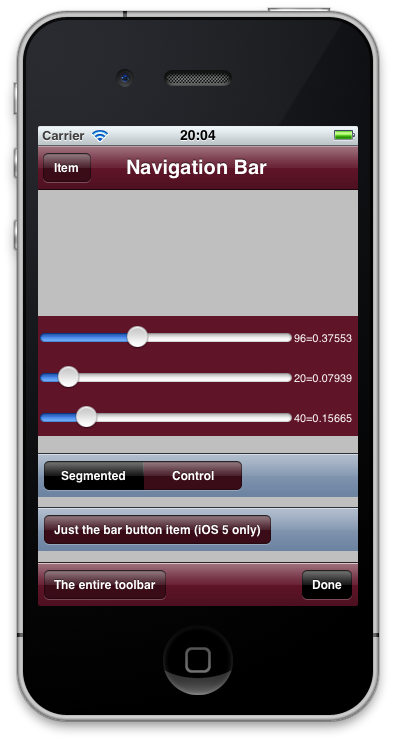
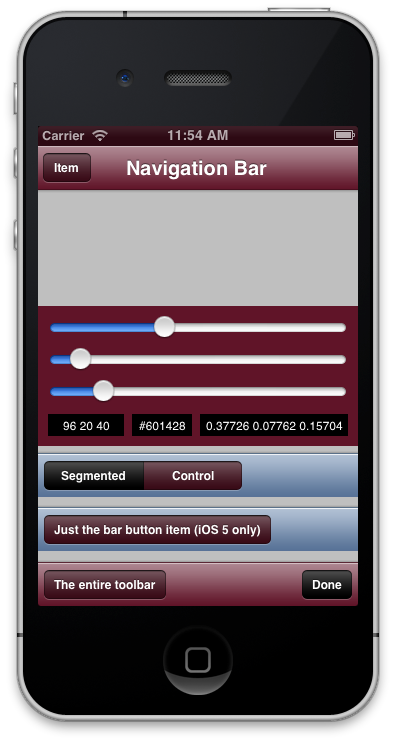
Now displays RGB as bytes, as hex, and as floats.

diff --git a/MHTintHelper/MHTintHelper.m b/MHTintHelper/MHTintHelper.m
@@ -4,16 +4,14 @@
 static const NSInteger MHTintHelperTag = 77777777;
 
 @interface MHTintHelper ()
-@property (nonatomic, strong) NSArray  *items;
-@property (nonatomic, strong) UISlider *redSlider;
-@property (nonatomic, strong) UILabel  *redLabel;
-@property (nonatomic, strong) UISlider *greenSlider;
-@property (nonatomic, strong) UILabel  *greenLabel;
-@property (nonatomic, strong) UISlider *blueSlider;
-@property (nonatomic, strong) UILabel  *blueLabel;
+@property (nonatomic, strong) NSArray *items;
 @end
 
 @implementation MHTintHelper
+{
+	UISlider *_sliders[3];
+	UILabel *_labels[3];
+}
 
 + (void)showInView:(UIView *)view forItem:(id)item
 {
@@ -22,11 +20,12 @@ static const NSInteger MHTintHelperTag = 77777777;
 
 + (void)showInView:(UIView *)view forItems:(NSArray *)items
 {
-	MHTintHelper *helper = [[MHTintHelper alloc] initWithFrame:CGRectMake(0.0f, 0.0f, 320.0f, 120.0f)];
+	MHTintHelper *helper = [[MHTintHelper alloc] initWithFrame:CGRectMake(0.0f, 0.0f, 320.0f, 140.0f)];
 	helper.items = items;
 	helper.tag = MHTintHelperTag;
 	helper.center = CGPointMake(view.bounds.size.width/2.0f, view.bounds.size.height/2.0f);
 	[view addSubview:helper];
+	[helper update];
 }
 
 + (NSInteger)tag
@@ -45,39 +44,29 @@ static const NSInteger MHTintHelperTag = 77777777;
 
 		for (int t = 0; t < 3; ++t)
 		{
-			UISlider *theSlider = [[UISlider alloc] initWithFrame:CGRectMake(0.0f, 10.0f + t*40.0f, 256.0f, 23.0f)];
+			UISlider *theSlider = [[UISlider alloc] initWithFrame:CGRectMake(10.0f, 10.0f + t*32.0f, 300.0f, 22.0f)];
 			theSlider.minimumValue = 0.0f;
 			theSlider.maximumValue = 1.0f;
 			theSlider.value = 0.5f;
 			theSlider.autoresizingMask = 0;
 			[theSlider addTarget:self action:@selector(sliderMoved:) forControlEvents:UIControlEventValueChanged];
 			[self addSubview:theSlider];
+			_sliders[t] = theSlider;
 
-			UILabel *theLabel = [[UILabel alloc] initWithFrame:CGRectMake(256.0f, 10.0f + t*40.0f, 64.0f, 23.0f)];
-			theLabel.font = [UIFont systemFontOfSize:11.0f];
-			theLabel.backgroundColor = [UIColor clearColor];
+			UILabel *theLabel = [[UILabel alloc] initWithFrame:CGRectZero];
+			theLabel.font = [UIFont systemFontOfSize:12.0f];
+			theLabel.textColor = [UIColor whiteColor];
+			theLabel.backgroundColor = [UIColor blackColor];
 			theLabel.lineBreakMode = UILineBreakModeClip;
+			theLabel.textAlignment = UITextAlignmentCenter;
 			theLabel.autoresizingMask = 0;
 			[self addSubview:theLabel];
-
-			if (t == 0)
-			{
-				self.redSlider = theSlider;
-				self.redLabel = theLabel;
-			}
-			else if (t == 1)
-			{
-				self.greenSlider = theSlider;
-				self.greenLabel = theLabel;
-			}
-			else
-			{
-				self.blueSlider = theSlider;
-				self.blueLabel = theLabel;
-			}
+			_labels[t] = theLabel;
 		}
-
-		[self update];
+		
+		_labels[0].frame = CGRectMake( 10.0f, 108.0f,  76.0f, 22.0f);
+		_labels[1].frame = CGRectMake( 94.0f, 108.0f,  60.0f, 22.0f);
+		_labels[2].frame = CGRectMake(162.0f, 108.0f, 148.0f, 22.0f);
 	}
 	return self;
 }
@@ -89,22 +78,23 @@ static const NSInteger MHTintHelperTag = 77777777;
 
 - (void)update
 {
-	UIColor *color = [UIColor colorWithRed:self.redSlider.value green:self.greenSlider.value blue:self.blueSlider.value alpha:1.0f];
+	UIColor *color = [UIColor colorWithRed:_sliders[0].value green:_sliders[1].value blue:_sliders[2].value alpha:1.0f];
 	self.backgroundColor = color;
 
-	self.redLabel.text = [NSString stringWithFormat:@"%d=%g", (int)roundf(self.redSlider.value*255.0f), self.redSlider.value];
-	self.greenLabel.text = [NSString stringWithFormat:@"%d=%g", (int)roundf(self.greenSlider.value*255.0f), self.greenSlider.value];
-	self.blueLabel.text = [NSString stringWithFormat:@"%d=%g", (int)roundf(self.blueSlider.value*255.0f), self.blueSlider.value];
+	_labels[0].text = [NSString stringWithFormat:@"%d %d %d",
+		(int)roundf(_sliders[0].value*255.0f),
+		(int)roundf(_sliders[1].value*255.0f),
+		(int)roundf(_sliders[2].value*255.0f)];
 
-	UIColor *textColor;
-	if (self.redSlider.value + self.greenSlider.value + self.blueSlider.value < 1.5f)
-		textColor = [UIColor whiteColor];
-	else
-		textColor = [UIColor blackColor];
+	_labels[1].text = [NSString stringWithFormat:@"#%02X%02X%02X",
+		(int)roundf(_sliders[0].value*255.0f),
+		(int)roundf(_sliders[1].value*255.0f),
+		(int)roundf(_sliders[2].value*255.0f)];
 
-	self.redLabel.textColor = textColor;
-	self.greenLabel.textColor = textColor;
-	self.blueLabel.textColor = textColor;
+	_labels[2].text = [NSString stringWithFormat:@"%0.5f %0.5f %0.5f",
+		_sliders[0].value,
+		_sliders[1].value,
+		_sliders[2].value];
 
 	for (id item in self.items)
 	{
